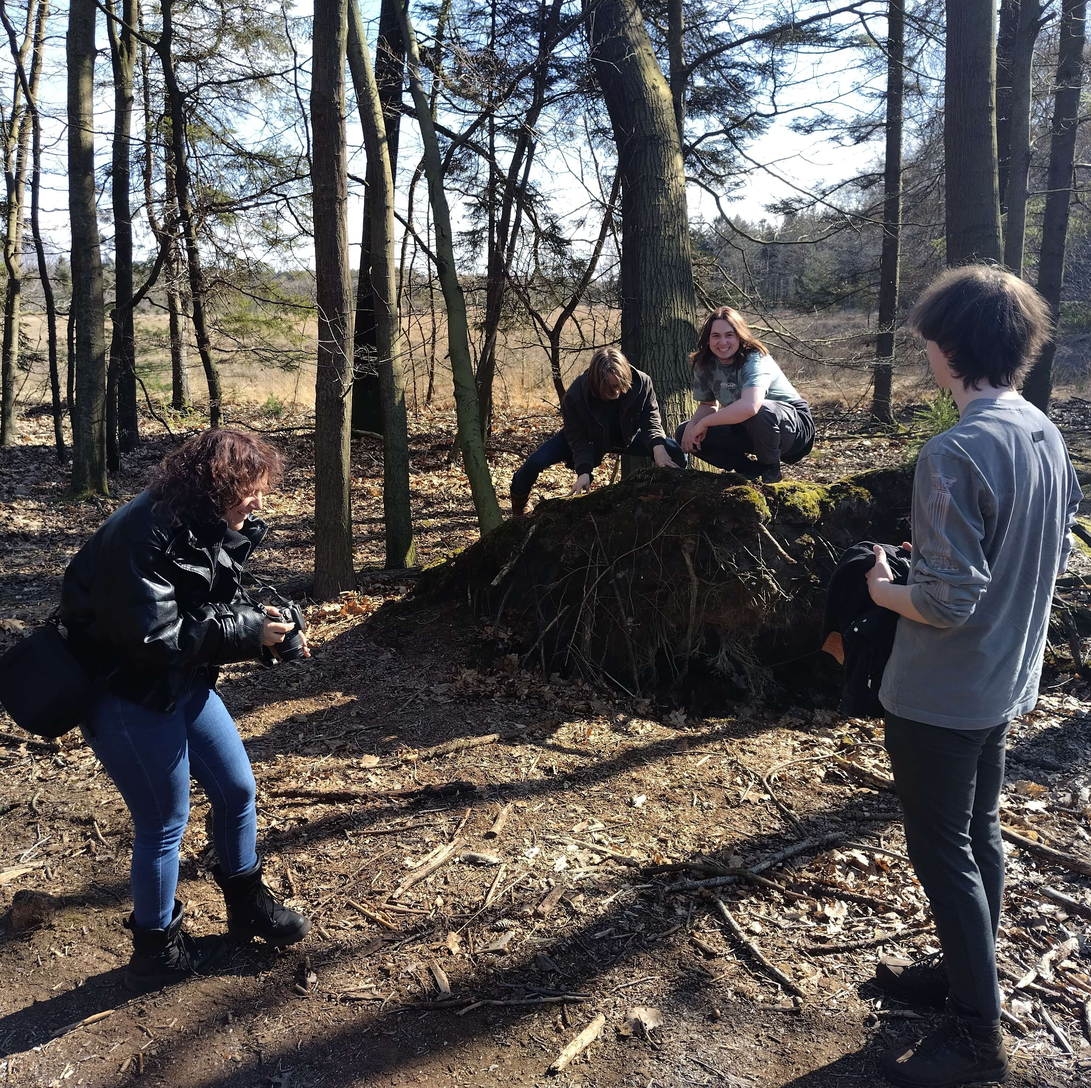
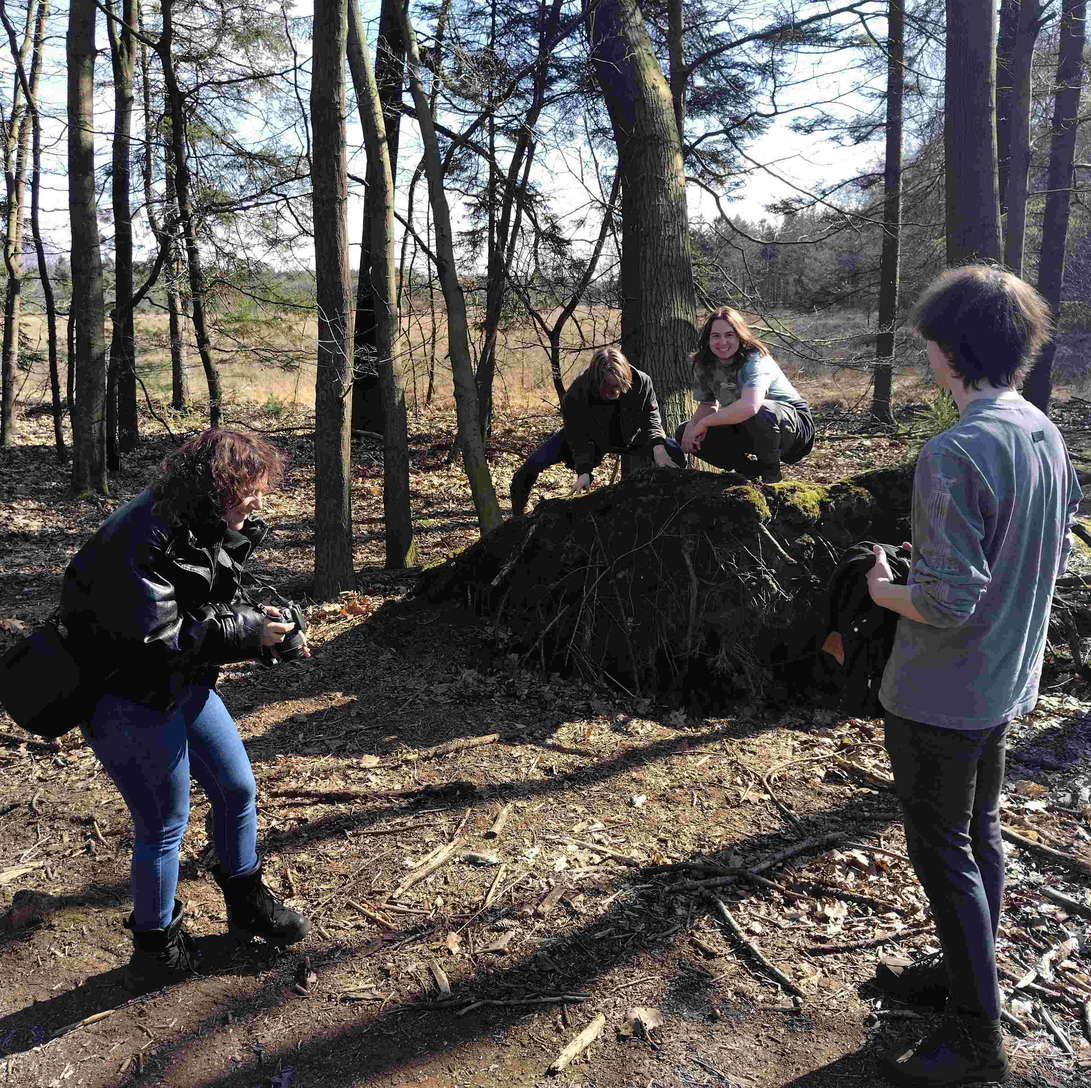
Add files via upload

diff --git a/aboutme.html b/aboutme.html
@@ -43,7 +43,7 @@
                             </div>
                             <!-- Item 3 -->
                             <div class="hidden duration-900 ease-in-out" data-carousel-item>
-                                <img src="img/AboutMe/PF_Zoë_2.0.png" class="absolute w-3xs -translate-x-1/2 -translate-y-1/2 top-1/2 left-1/2" alt="...">
+                                <img src="img/AboutMe/PF_Zoë_2.0.jpg" class="absolute w-3xs -translate-x-1/2 -translate-y-1/2 top-1/2 left-1/2" alt="...">
                             </div>
                         </div>
                     </div>
@@ -102,28 +102,28 @@
                 <h2 class="font-stack text-navbar text-primary pb-5"> Photos </h2>
                 <div class="grid grid-cols-2 md:grid-cols-3 gap-4">
                     <div class="grid gap-4">
-                        <img class="rounded-base" src="Photography/SmallSpider.JPG" alt="spin">
+                        <img class="rounded-base h-auto w-full" src="Photography/SmallSpider.JPG" alt="spin">
                     </div>
                     <div class="grid gap-4">
-                        <img class="rounded-base" src="Photography/SwanCouple.JPG" alt="zwanen">
+                        <img class="rounded-base h-auto w-full" src="Photography/SwanCouple.JPG" alt="zwanen">
                     </div>
                     <div class="grid gap-4">
-                        <img class="rounded-base" src="Photography/PinkWildflower.JPG" alt="rozebloemen">
+                        <img class="rounded-base h-auto w-full" src="Photography/PinkWildflower.JPG" alt="rozebloemen">
                     </div>
                     <div class="grid gap-4">
-                        <img class="rounded-base" src="Photography/SnowOwl.JPG" alt="sneeuwuil">
+                        <img class="rounded-base h-auto w-full" src="Photography/SnowOwl.JPG" alt="sneeuwuil">
                     </div>
                     <div class="grid gap-4">
-                        <img class="rounded-base" src="Photography/TuxedoCat.JPG" alt="kat">
+                        <img class="rounded-base h-auto w-full" src="Photography/TuxedoCat.JPG" alt="kat">
                     </div>
                     <div class="grid gap-4">
-                        <img class="rounded-base" src="Photography/Mestkever.JPG" alt="mestkever">
+                        <img class="rounded-base h-auto w-full" src="Photography/Mestkever.JPG" alt="mestkever">
                     </div>
                     <div class="grid gap-4">
-                        <img class="rounded-base" src="Photography/Spiderweb.JPG" alt="spinnenweb">
+                        <img class="rounded-base h-auto w-full" src="Photography/Spiderweb.JPG" alt="spinnenweb">
                     </div>
                     <div class="grid gap-4">
-                        <img class="rounded-base" src="Photography/FrozenPlants.JPG" alt="vriesplant">
+                        <img class="rounded-base h-auto w-full" src="Photography/FrozenPlants.JPG" alt="vriesplant">
                     </div>
                 </div>
             </div>
